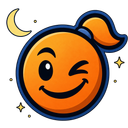
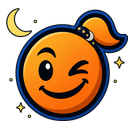
Preview: render with new-format config; STATUS: resume 2026-11-10, protocols_read_sha 46fbda72

diff --git a/STATUS.md b/STATUS.md
@@ -29,7 +29,7 @@ remaining:
   - 8.m code review 2026-11-02 at f70d942 (Opus sub-agent): the HIGH and the 4 MEDIUM fixed in cfba5a0 (Wear drops replaced apparel, locked pieces filtered in ForDressing, refused garment placed on floor, forced flag cleared in NotifyUndressed, optimizer runs when ledger is on another map); replay ticket 20261102-192009-749-04b9 (02-06, h1-review-fixes) queued; 3 LOW left open (Change back now no-op in sleep hours, stale LayDown, tracker Current not cleared); code_review_sha to set to cfba5a0 (or HEAD) once the replay is green. Findings: HIGH JobDriver_ChangeAtNightStand.cs:134 Wear(dropReplacedApparel:false) deletes a conflicting worn piece (night raid, flak vest); MEDIUM NightSwap.cs:59 ForDressing ignores locked worn apparel; JobDriver:139 AddApparel result ignored (garment orphaned); CompNightStand.cs:127 NotifyUndressed leaves SetForced(true) on night clothes after stand destroyed; HarmonyPatches.cs:161 caravan keeps ledger, pawn stays in pyjamas on another map; LOW CompNightStand.cs:109 Change back now no-op during Sleep hours or cooldown, HarmonyPatches.cs:107 stale LayDown after failed inner StartJob, NightChangeTracker.cs:25 static Current not cleared
   - feature: gallery captures (shootGallery); PUBLICATION.md written 2026-10-13, its gallery table is a plan
 updated:      2026-11-02, playTests[1.0.0]; audit replayed 1 to 8 (first open 8.f: 13 without Biotech)
-protocols_read_sha: 70aa4922f19ac4df5b64764c38ed8681034da913
+protocols_read_sha: 46fbda72bcf691cb49bb631d0e72a6e94e28aa80
 ---
 # Night Change - status
 
@@ -81,3 +81,5 @@ Ticket 20261102-192009-749-04b9 (tree cfba5a0, owner local_1282d52c): filter 02-
 Fixture `nobiotech-colony.rws` is git-ignored here on purpose; source of truth is `PickleTools/Tests/Pickle/Fixtures/nobiotech-colony.rws`. Copy it into `Tests/Pickle/Mod/Pickle/Fixtures/` before pass 6. Waiting on ticket 5d5a (filed 2026-11-03, owner local_46159c6e); then file pass 6, set `code_review_sha`, run Prune-Evidence (move Evidence/, evidence/, Kept/ into Inbox/ first).
 
 2026-11-03: ticket 5d5a (h2-review-fixes) exit=1: 15 scenarios, 14 green (04 reassigned overnight, 05 x3, 06 x5 incl. borrower killed/sold/banished, stand destroyed, blocked path in the morning), 1 red: 06 "the parked day clothes are taken off the stand overnight": `Step 'And I wait 900 ticks' timed out after 5s` (360 ticks played), a step timeout, not an assertion failure. Replay alone: ticket 20261103-210832-267-a13e (filter `06-departure::parked day clothes`, map wsl-deps.sans-facultatifs.map, English, Inbox/h3-parked-clothes). `code_review_sha` still unset until it is green. Meanwhile: nothing touches `Mod/` or `Source/`.
+
+2026-11-10: resumed (NiC). Protocols read at 46fbda72. Preview re-rendered with new-format Preview.config.json (old render overlapped echo and title; new one clear), committed with Art/Gallery/0-preview.png and ModIcon.png. Ticket a13e (h3-parked-clothes): Inbox holds only Player.log and no-report.txt (launcher exit 255), no result: refile `06-departure::parked day clothes` unless TM relays one. `code_review_sha` still unset. Inbox h1/h2/h3/stalled not yet triaged (AGENTS.md Inbox lifecycle).
